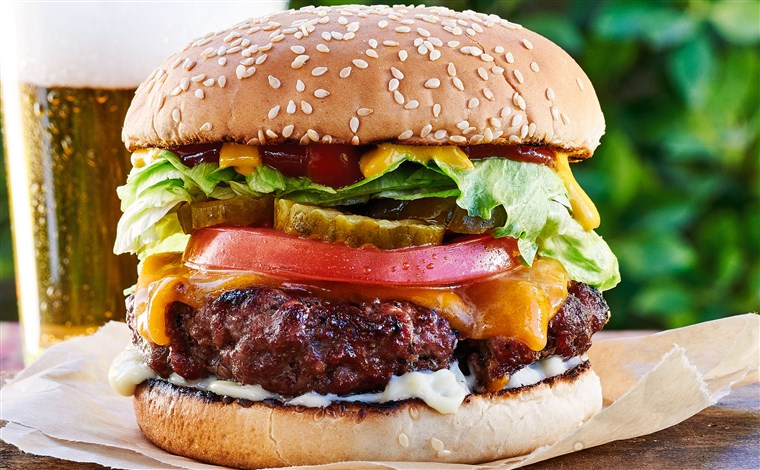
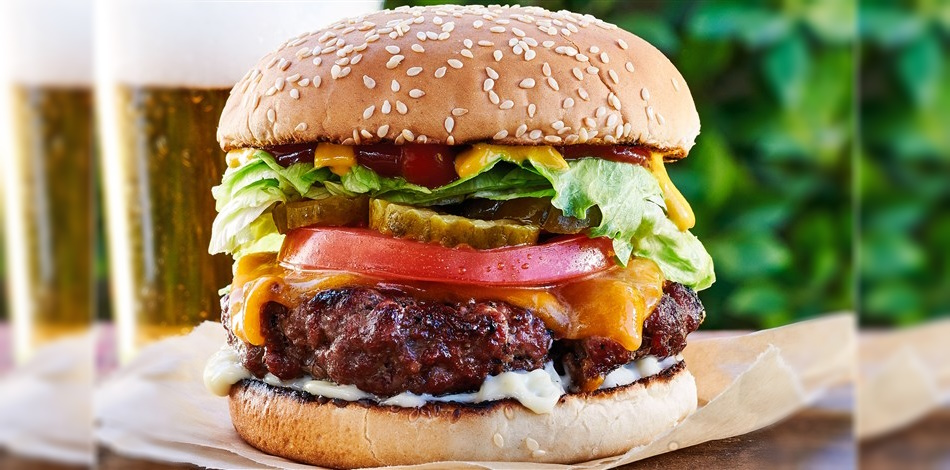
Change cook time info to a table, minor style changes

diff --git a/css/style.css b/css/style.css
@@ -8,7 +8,7 @@
     justify-content: space-between;
     align-items: center;
     padding: .5% 15%;
-    background-color: #ff5039;
+    background-color: #a7b7c9;
 }
 .nav-bar img {
     max-width: 160px;
@@ -18,6 +18,7 @@
     margin: 0 10px;
     font-size: 1.1em;
     color: rgb(0, 0, 0);
+    white-space: nowrap;
     text-decoration: none;
 }
 .nav-item:hover {
@@ -49,19 +50,18 @@
     width: 80%;
     display: block;
     margin: 0 auto;
-    min-height: 100px;
-    max-height: 600px;
     object-fit: cover;
     object-position: top;
 }
 #main-img h2 {
     position: absolute;
-    bottom: 10%;
+    top: 70%;
     background-color: rgb(255, 255, 255);
     padding: 5px 5%;
-    width: 40%;
-    margin: 0 25%;
+    width: 50%;
+    margin: 0 20%;
     text-align: center;
+    font-size: 3vw;
 }
 .section {
     padding: 4% 15%;
@@ -115,16 +115,15 @@
     background-color: #d9dee6;
     padding: 2% 0 2% 15%;
 }
-.time-info {
-    display: flex;
-    flex-flow: row wrap;
-    gap: 25%;
-    max-width: 70%;
+#recipe-time {
+    padding: 2% 15%;
 }
-.time-info div {
-    margin-top: 2%;
+#recipe-time td {
+    padding: 2% 5% 0 0;
+    width: 20%;
+    vertical-align: top;
 }
-.time-info p, .time-info h5 {
+#recipe-time p, #recipe-time h5 {
     display: inline;
 }
 #recipe-heading {
@@ -165,27 +164,27 @@
 }
 .recipe-quote {
     background-color: #efeff4;
-    margin: 2% 18% 0;
-    padding: 2% 10%;
+    margin: 2% 15% 0;
+    padding: 2% 12%;
 }
 #recipe-container {
     display: flex;
     flex-flow: row wrap;
     text-align: left;
-    justify-content: space-evenly;
-    margin: 5% 12%;
+    justify-content: space-between;
+    margin: 5% 15%;
     row-gap: 20px;
 }
 .ingredients {
     max-width: 30%;
-    min-width: 300px;
+    min-width: 270px;
 }
 .ingredients ul:first-of-type {
     padding-top: 2%;
 }
 .directions {
     max-width: 50%;
-    min-width: 300px;
+    min-width: 270px;
 }
 .directions li {
     padding: 2%;
@@ -193,8 +192,11 @@
 .directions li:nth-of-type(7) {
     padding-top: 0;
 }
-#recipe-container li {
+#recipe-container li, #recipe-container h5 {
     margin-left: 15px;
+}
+ol h5 {
+    padding-left: 8px;
 }
 h1, h2, h3, h4 {
     font-family: "Poppins", sans-serif;

diff --git a/recipe.html b/recipe.html
@@ -29,13 +29,17 @@
 
         <div id="recipe-time">
             <h3>Time</h3>
-            <div class="time-info">
-                <div><h5>Prep: </h5><p>10 min</p></div>
-                <div><h5>Cook: </h5><p>15 min</p></div>
-                <div><h5>Total: </h5><p>25 min</p></div>
-                <div><h5>Level: </h5><p>Easy</p></div>
-                <div><h5>Yield: </h5><p>4 Hamburgers</p></div>
-            </div>
+            <table>
+                <tr>
+                    <td><h5>Prep: </h5><p>10 min</p></td>
+                    <td><h5>Cook: </h5><p>15 min</p></td>
+                    <td><h5>Total: </h5><p>25 min</p></td>
+                </tr>
+                <tr>
+                    <td><h5>Level: </h5><p>Easy</p></td>
+                    <td><h5>Yield: </h5><p>4 Ham&shy;burgers</p></td>
+                </tr>
+            </table>
         </div>
 
         <div id="recipe-heading">
